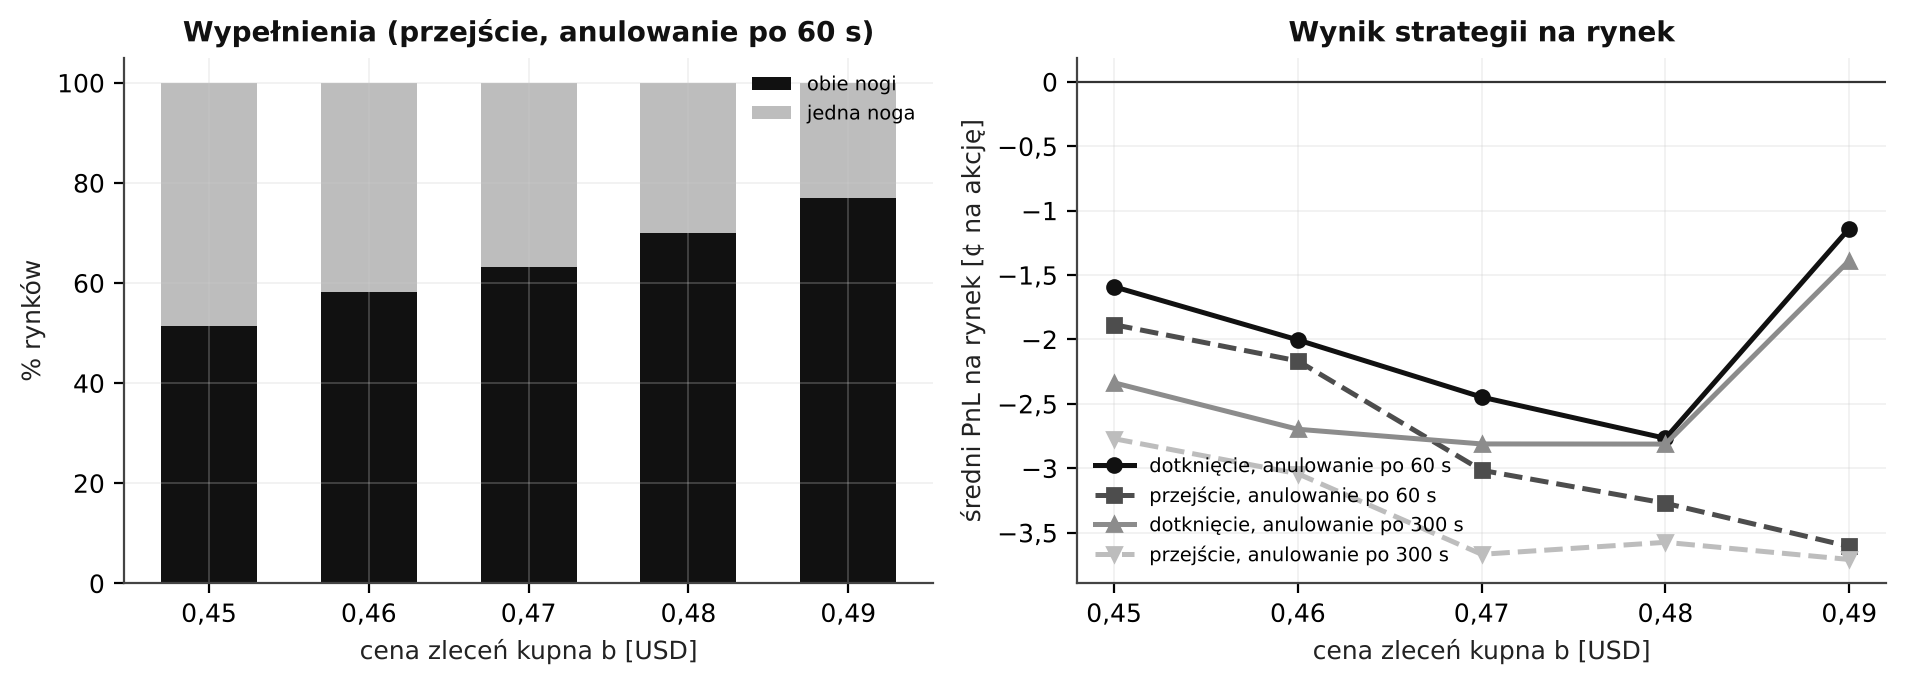
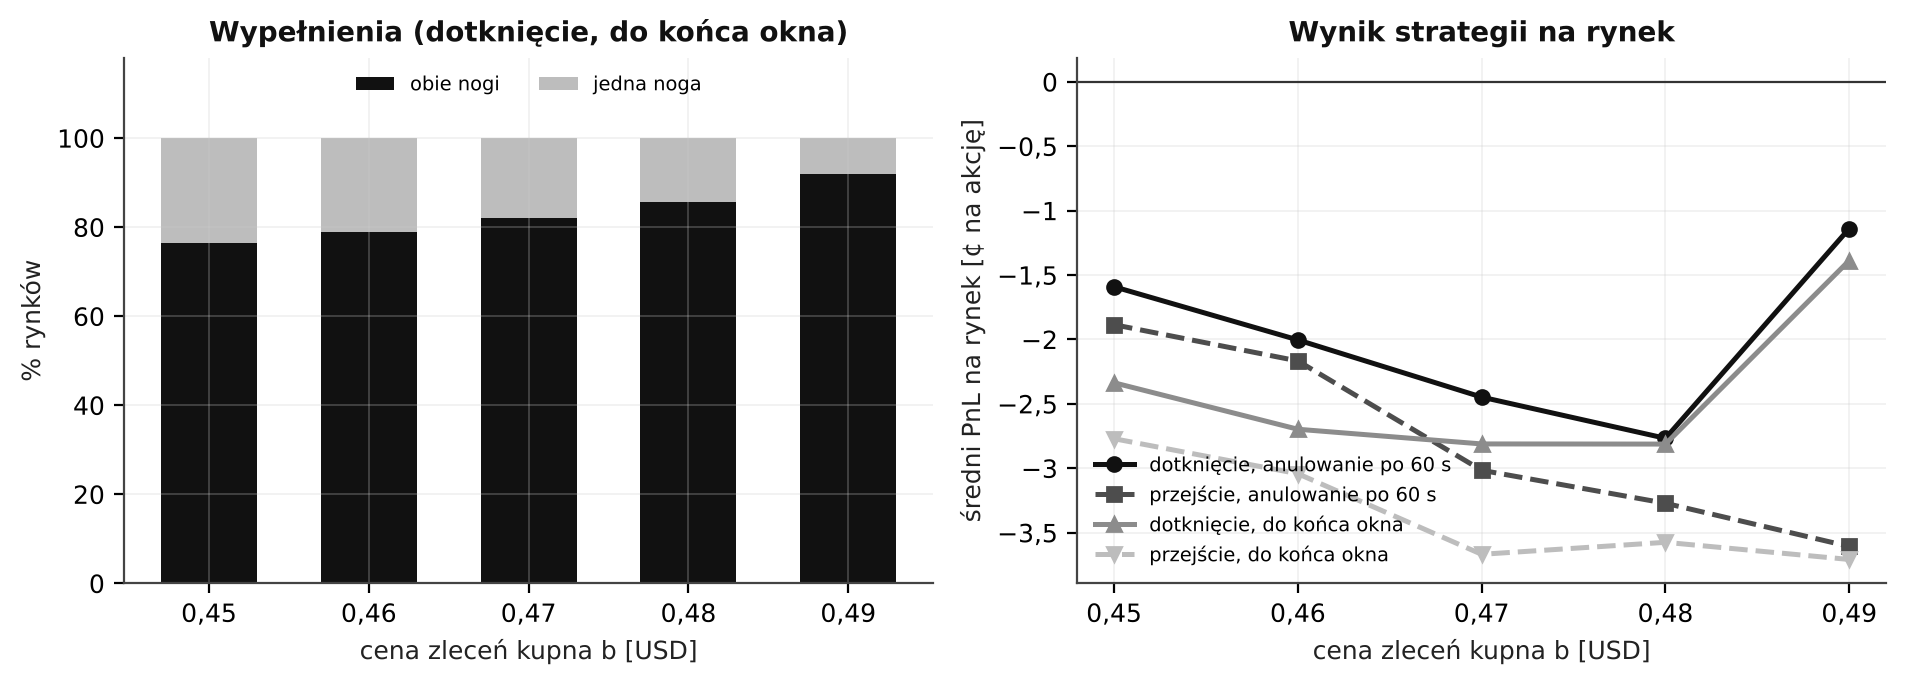
Known wallets re-check; two-sided bids figure for orders held to the end

diff --git a/analysis/08_two_sided_bids.py b/analysis/08_two_sided_bids.py
@@ -117,24 +117,25 @@ res["pre_start"] = {"share_of_trades_pct": 100 * len(pre) / len(t),
                     "markets_with_pre_start_trade_pct": 100 * pre.start_ts.nunique() / len(by_market)}
 write("08_two_sided_bids", res)
 
-# figure: outcome mix and expected PnL by bid level (cancel at 60 s and at end)
+# figure: outcome mix when held to the end, and expected PnL by bid level
 fig, axs = plt.subplots(1, 2, figsize=(9.6, 3.5))
 x = np.arange(len(LEVELS))
 g = res["grid"]
 for j, (mode, c, color, style) in enumerate((("touch", 60, INK, "o-"), ("through", 60, DARK, "s--"),
                                               ("touch", 300, MID, "^-"), ("through", 300, LIGHT, "v--"))):
     axs[1].plot(LEVELS, [g[f"{mode}|b={b:.2f}|cancel={c}s"]["pnl_c_per_market"] for b in LEVELS], style, color=color,
-                label=f"{'dotknięcie' if mode == 'touch' else 'przejście'}, anulowanie po {c} s")
+                label=f"{'dotknięcie' if mode == 'touch' else 'przejście'}, " + ("do końca okna" if c == 300 else f"anulowanie po {c} s"))
 axs[1].axhline(0, color="#333333", lw=.8)
 axs[1].set_xticks(LEVELS, [f"{b:.2f}".replace(".", ",") for b in LEVELS])
 axs[1].set(xlabel="cena zleceń kupna b [USD]", ylabel="średni PnL na rynek [¢ na akcję]", title="Wynik strategii na rynek")
 axs[1].legend(fontsize=7, loc="lower left")
-key = lambda b: g[f"through|b={b:.2f}|cancel=60s"]
+key = lambda b: g[f"touch|b={b:.2f}|cancel=300s"]
 both = [key(b)["both_pct"] for b in LEVELS]
 one = [key(b)["one_pct"] for b in LEVELS]
 axs[0].bar(x, both, .6, color=INK, label="obie nogi")
 axs[0].bar(x, one, .6, bottom=both, color=LIGHT, label="jedna noga")
 axs[0].set_xticks(x, [f"{b:.2f}".replace(".", ",") for b in LEVELS])
-axs[0].set(xlabel="cena zleceń kupna b [USD]", ylabel="% rynków", title="Wypełnienia (przejście, anulowanie po 60 s)")
-axs[0].legend(fontsize=7)
+axs[0].set(xlabel="cena zleceń kupna b [USD]", ylabel="% rynków", title="Wypełnienia (dotknięcie, do końca okna)")
+axs[0].set_ylim(0, 118)
+axs[0].legend(fontsize=7, ncol=2, loc="upper center")
 save(fig, "fig10_two_sided_bids.png")

diff --git a/analysis/09_known_wallets.py b/analysis/09_known_wallets.py
@@ -1,0 +1,48 @@
+"""Two wallets that were profitable on BTC Up/Down in early October, re-checked on the sample.
+
+Addresses come from the Polymarket profile search. Only their taker fills are visible in
+the trade data, and the sample covers every third 5-minute market.
+"""
+import numpy as np
+import pandas as pd
+
+from pm5m.results import write
+from pm5m.sample import Btc, load_markets, load_trades
+from pm5m.stats import tstat
+
+WALLETS = {
+    "NIULAI4": "0x44832d0d2ec11187c1e77d786feb15f6a50254c6",
+    "Atomforge": "0x84389cfc4a652ea14d8d8be969769b1f69de3680",
+}
+PRICE_BINS = [0, 0.3, 0.5, 0.7, 0.9, 1.0]
+
+m = load_markets()
+t = load_trades(m, Btc.load(), lags=(0,))
+t["wallet"] = t.wallet.str.lower()
+
+res = {}
+for name, address in WALLETS.items():
+    x = t[t.wallet == address]
+    per_market = x.groupby("start_ts").pnl.sum()
+    halves = {h: g.groupby("start_ts").pnl.sum() for h, g in x.groupby("half")}
+    trimmed = per_market.sort_values().iloc[: int(len(per_market) * 0.95)]
+    by_price = x.groupby(pd.cut(x.price, PRICE_BINS), observed=True).agg(fills=("pnl", "size"), pnl=("pnl", "sum"))
+    by_phase = x.groupby("phase", observed=True).agg(fills=("pnl", "size"), pnl=("pnl", "sum"))
+    res[name] = {
+        "fills": len(x),
+        "markets": per_market.size,
+        "notional_usd": x.notional.sum(),
+        "pnl_gross_usd": x.pnl_gross.sum(),
+        "fees_usd": x.fee.sum(),
+        "pnl_usd": x.pnl.sum(),
+        "t": tstat(per_market),
+        "markets_profitable_pct": 100 * (per_market > 0).mean(),
+        "pnl_usd_by_half": {h: s.sum() for h, s in halves.items()},
+        "t_by_half": {h: tstat(s) for h, s in halves.items()},
+        "pnl_usd_without_top5pct_markets": trimmed.sum(),
+        "pnl_usd_by_price": {str(k): v for k, v in by_price.pnl.items()},
+        "pnl_usd_by_phase": {str(k): v for k, v in by_phase.pnl.items()},
+    }
+    print(f"{name}: {len(x)} fills, {per_market.size} markets, net {x.pnl.sum():,.0f} USD, t = {tstat(per_market):.2f}")
+
+write("09_known_wallets", res)

diff --git a/README.md b/README.md
@@ -22,8 +22,8 @@ ok. 35 tys. portfeli, 61 mln USD obrotu.
 | Portfele z istotnym zyskiem w obu połowach próby | 13 (wszystkie kupują faworytów po ok. 0,99 USD) |
 | Reguła faworyta, zlecenie limit (bez opłaty) | +2,63¢ na akcję, t = 8,4 |
 | Reguła faworyta, FOK (opłata 0,07) | +2,02¢ na akcję, t = 4,9 |
-
 | Zlecenia kupna po 0,45–0,49 na obie strony przed startem | od −1,1 do −3,7¢ na rynek, we wszystkich wariantach |
+| NIULAI4 i Atomforge (zyskowni na początku października) | −1,4 tys. USD (t = −0,5) i +7,6 tys. USD (t = 1,1) |
 
 Wniosek: ceny są efektywne z dokładnością do ok. 3 sekund. Jedyna nieefektywność, która
 przetrwała test poza próbą, dotyczy prawie pewnych faworytów i wynika z kształtu opłaty
@@ -33,6 +33,10 @@ Zlecenia na obie strony (`analysis/08_two_sided_bids.py`): para wypełniona po 0
 (+0,7¢ rabatu), ale gdy wypełnia się tylko jedna noga, jest to zwykle strona przegrywająca:
 wygrywa w 24–41% przypadków przy cenie zakupu 0,45–0,49. Dokupienie drugiej strony zaraz po
 wypełnieniu też traci (od −1,5 do −3,5¢ na rynek), bo cena zdąży się przesunąć.
+
+Znane portfele (`analysis/09_known_wallets.py`): dwa portfele zyskowne na tych rynkach na
+początku października nie mają w próbie istotnej przewagi na rynkach 5m. Po odjęciu 5%
+najlepszych rynków oba wyniki są ujemne.
 
 ## Metoda
 
@@ -81,7 +85,7 @@ src/pm5m/
   sample.py        ładowanie próby, wartość modelu dla każdej transakcji
   strategies.py    reguła faworyta
   stats.py         Brier, regresja logistyczna, błędy klastrowane po rynku
-analysis/          skrypty 01–08, po jednym na rozdział badania
+analysis/          skrypty 01–09, po jednym na rozdział badania
 results/           wyniki liczbowe (JSON)
 figures/           wykresy
 tests/             test modelu (Monte Carlo)
@@ -94,7 +98,7 @@ docs/raport.pdf    pełny raport
 make install     # pip install -e ".[dev]"
 make data        # pobranie danych, ok. 20 min
 make panel       # budowa tabel analitycznych
-make analysis    # analysis/01–08 -> results/, figures/
+make analysis    # analysis/01–09 -> results/, figures/
 make test
 ```
 
